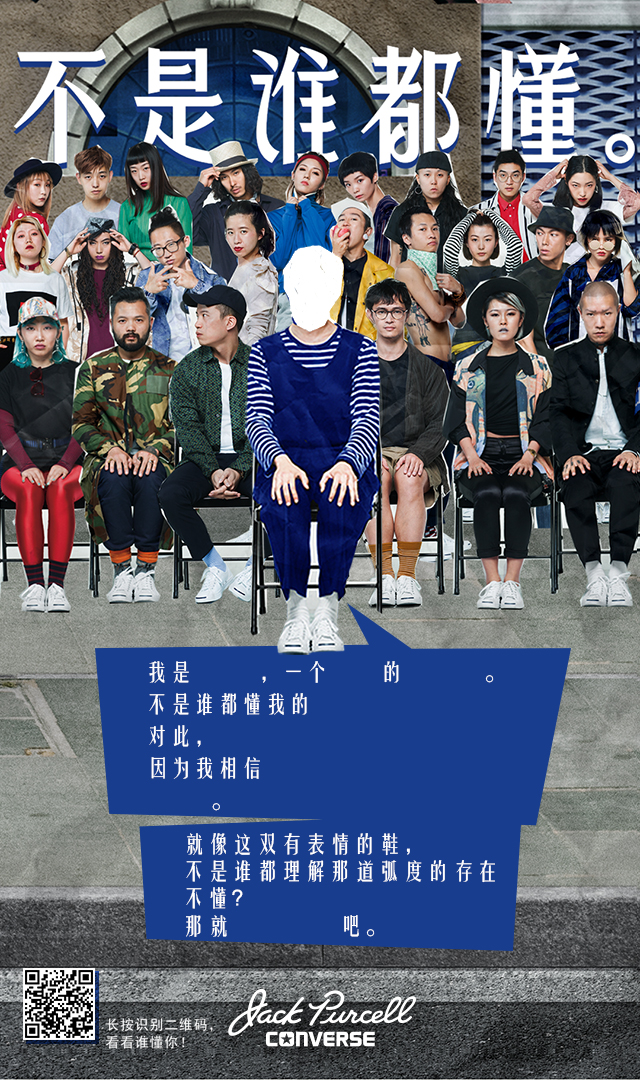
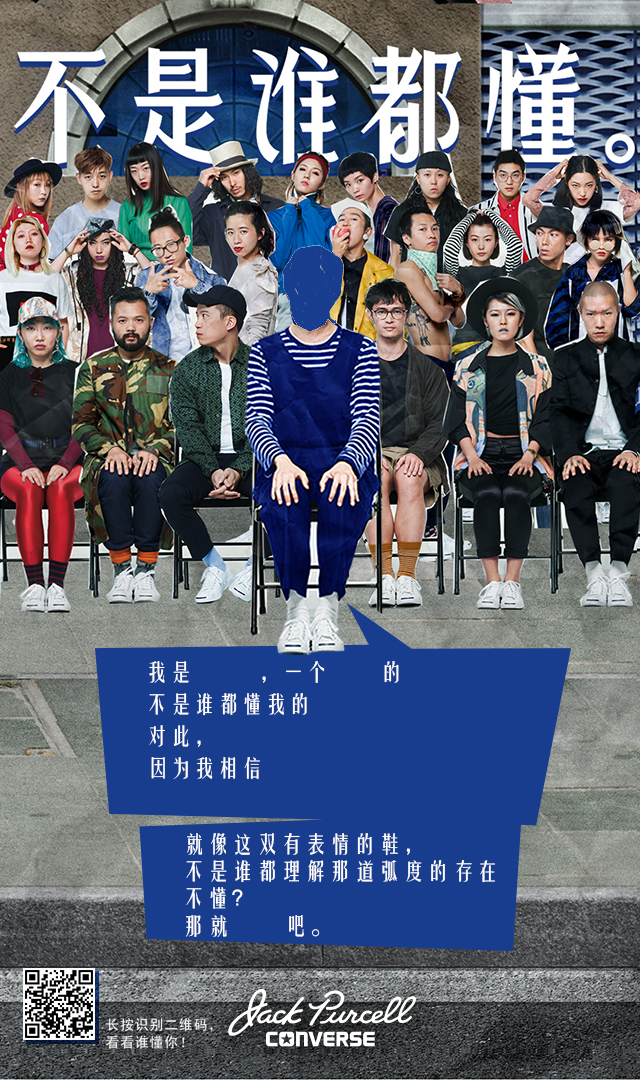
匡威背景图片

Changed region(s): [[0.4375, 0.2139, 0.5625, 0.3056], [0.4375, 0.825, 0.5, 0.8861], [0.5312, 0.825, 0.5625, 0.8861]]

diff --git a/app/Http/Controllers/Converse/ConverseController.php b/app/Http/Controllers/Converse/ConverseController.php
@@ -134,8 +134,8 @@ class ConverseController extends Controller
         $length6 = $this->length($request->input('text6'));
         $length7 = $this->length($request->input('text7'));
         //用户头像 base64编码
-        //背景图片
-        if ($length6 >= 6) {
+        //背景图片，根据最后一个空格切换
+        if ($length7 >= 4) {
             $img = Image::make(public_path('converse/img/hot/hot_l.jpg'));
         } else {
             $img = Image::make(public_path('converse/img/hot/hot_s.jpg'));
@@ -146,10 +146,12 @@ class ConverseController extends Controller
         //根据输入字段长度确定白底长度
         $img1 = Image::make(public_path('converse/img/coolSpace/' . $length1 . '.png'));
         $img2 = Image::make(public_path('converse/img/coolSpace/' . $length2 . '.png'));
-        $img3 = Image::make(public_path('converse/img/coolSpace/' . $length3 . '.png'));
+        $img3 = Image::make(public_path('converse/img/coolSpace/hot2/' . $length3 . '.png'));
+        //加逗号的白条
         $img4 = Image::make(public_path('converse/img/coolSpace/hot/' . $length4 . '.png'));
         $img5 = Image::make(public_path('converse/img/coolSpace/hot/' . $length5 . '.png'));
-        $img6 = Image::make(public_path('converse/img/coolSpace/' . $length6 . '.png'));
+
+        $img6 = Image::make(public_path('converse/img/coolSpace/hot2/' . $length6 . '.png'));
         $img7 = Image::make(public_path('converse/img/coolSpace/' . $length7 . '.png'));
         //在白底上添加输入的文字
         $img1 = $img1->text($request->input('text1'), 0, 5, function ($font) {
